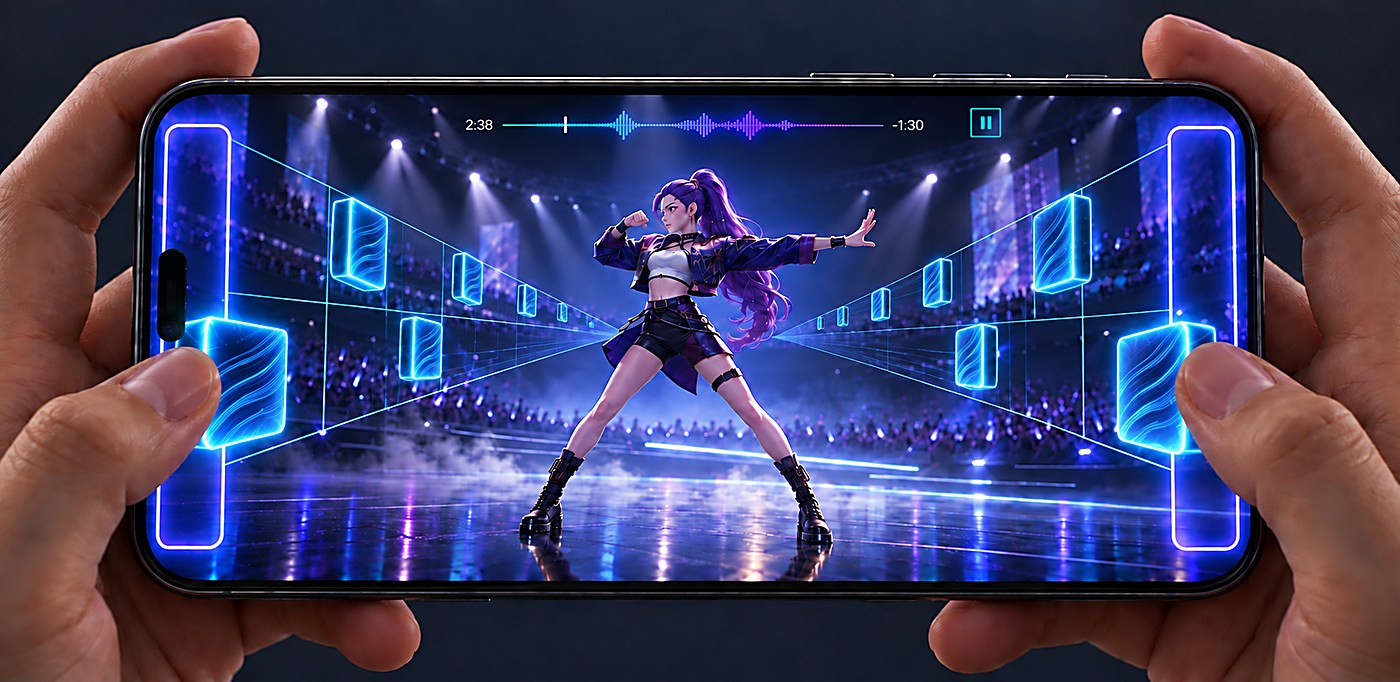
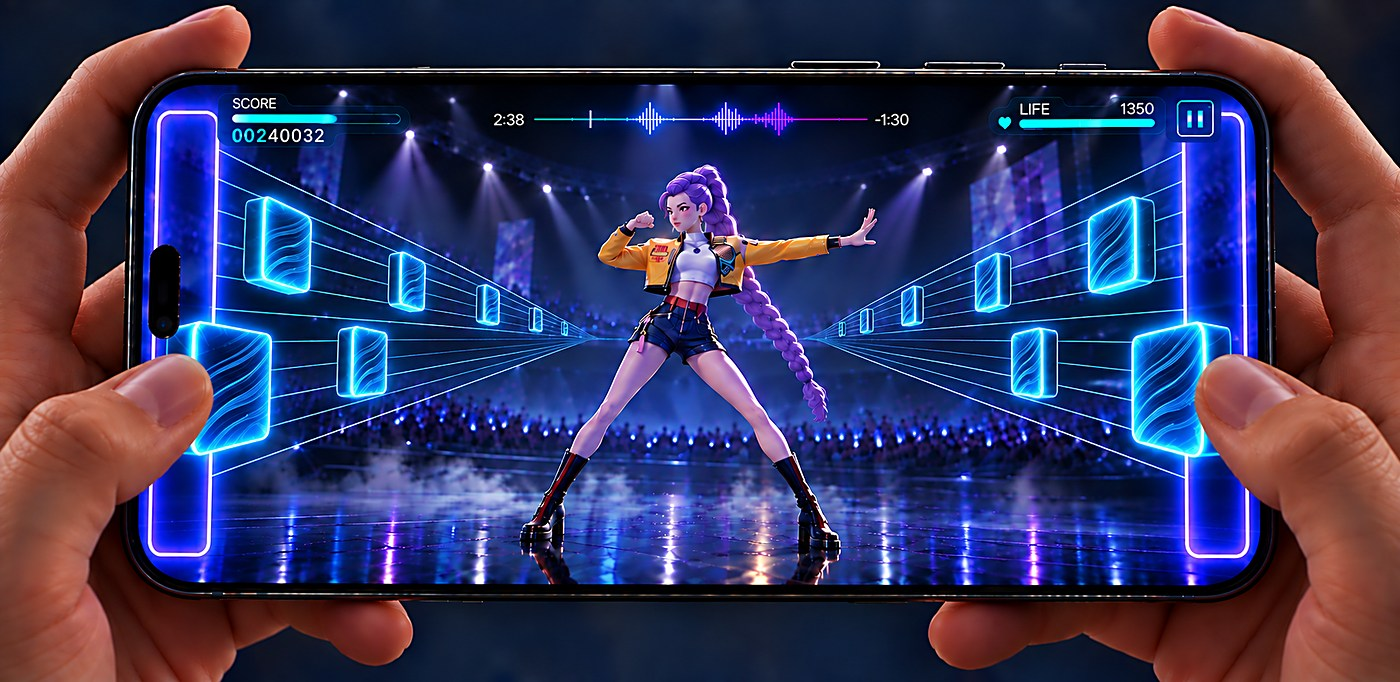
Fondo con imagen en el divisor de historial y fugas verticales corregidas

diff --git a/index.html b/index.html
@@ -776,10 +776,14 @@ footer{padding:clamp(2.5rem,7vh,4rem) var(--gutter);border-top:1px solid var(--h
   padding:clamp(2.6rem,7vh,4.4rem) var(--gutter) clamp(2.2rem,6vh,3.6rem);
   display:grid;justify-items:center;gap:.9rem;text-align:center;
   position:relative;
-  background:
-    radial-gradient(60% 140% at 50% 0%,rgba(0,200,255,.09),transparent 70%),
-    var(--stage-100);
-  transition:background .3s ease;
+  background-image:
+    radial-gradient(70% 150% at 50% 0%,rgba(0,200,255,.14),transparent 72%),
+    linear-gradient(180deg,rgba(4,5,12,.94) 0%,rgba(4,5,12,.62) 42%,rgba(4,5,12,.72) 68%,rgba(4,5,12,.97) 100%),
+    url("assets/palette-rainbow.jpg");
+  background-size:auto,auto,cover;
+  background-position:center,center,center 42%;
+  background-repeat:no-repeat;
+  transition:background-image .3s ease;
 }
 .history > summary::-webkit-details-marker{display:none;}
 .history > summary::after{
@@ -789,24 +793,26 @@ footer{padding:clamp(2.5rem,7vh,4rem) var(--gutter);border-top:1px solid var(--h
   opacity:.75;
 }
 .history > summary:hover{
-  background:
-    radial-gradient(60% 140% at 50% 0%,rgba(0,200,255,.15),transparent 70%),
-    var(--stage-100);
+  background-image:
+    radial-gradient(70% 150% at 50% 0%,rgba(0,200,255,.2),transparent 72%),
+    linear-gradient(180deg,rgba(4,5,12,.9) 0%,rgba(4,5,12,.48) 42%,rgba(4,5,12,.6) 68%,rgba(4,5,12,.95) 100%),
+    url("assets/palette-rainbow.jpg");
 }
 .history__k{
   font-family:var(--mono);font-size:.68rem;
   letter-spacing:.34em;text-transform:uppercase;color:var(--blue);
+  text-shadow:0 1px 14px rgba(4,5,12,.95);
 }
 .history__t{
   font-family:var(--display);
   font-size:clamp(2rem,5.4vw,4rem);
   text-transform:uppercase;letter-spacing:.04em;color:var(--ink);line-height:1;
-  text-shadow:0 0 44px rgba(0,200,255,.28);
+  text-shadow:0 0 44px rgba(0,200,255,.3), 0 2px 26px rgba(4,5,12,.95);
 }
 .history__d{
   font-family:var(--mono);font-size:var(--s1);
-  letter-spacing:.2em;text-transform:uppercase;color:var(--ink-mute);
-  max-width:46ch;
+  letter-spacing:.2em;text-transform:uppercase;color:var(--ink-dim);
+  max-width:46ch;text-shadow:0 1px 16px rgba(4,5,12,.95);
 }
 .history__chev{
   margin-top:.6rem;
@@ -815,11 +821,11 @@ footer{padding:clamp(2.5rem,7vh,4rem) var(--gutter);border-top:1px solid var(--h
   display:inline-flex;align-items:center;gap:.6rem;
   padding:.62rem 1.4rem;
   border:1px solid rgba(0,200,255,.5);
-  background:rgba(0,200,255,.08);
+  background:rgba(4,5,12,.6);backdrop-filter:blur(6px);
   transition:background .25s ease, border-color .25s ease;
 }
 .history > summary:hover .history__chev{
-  background:rgba(0,200,255,.18);border-color:var(--blue);
+  background:rgba(0,200,255,.22);border-color:var(--blue);
 }
 .history__chev::after{content:"\25BC";font-size:.58rem;transition:transform .3s ease;}
 .history[open] > summary .history__chev::after{transform:rotate(180deg);}
